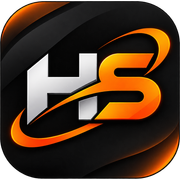
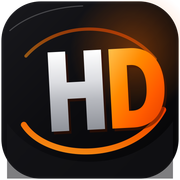
feat: add Hadi Digital brand mark

diff --git a/src/components/brand-logo.tsx b/src/components/brand-logo.tsx
@@ -4,7 +4,7 @@ type MarkProps = {
   className?: string;
 };
 
-const LOGO = "/brand/hadi-store-mark.png";
+const LOGO = "/brand/hadi-digital-mark.png";
 
 /** نشانهٔ Hadi Digital (نسخهٔ اصلی روی پسزمینهٔ روشن) */
 export function ArcMark({ className = "" }: MarkProps) {
